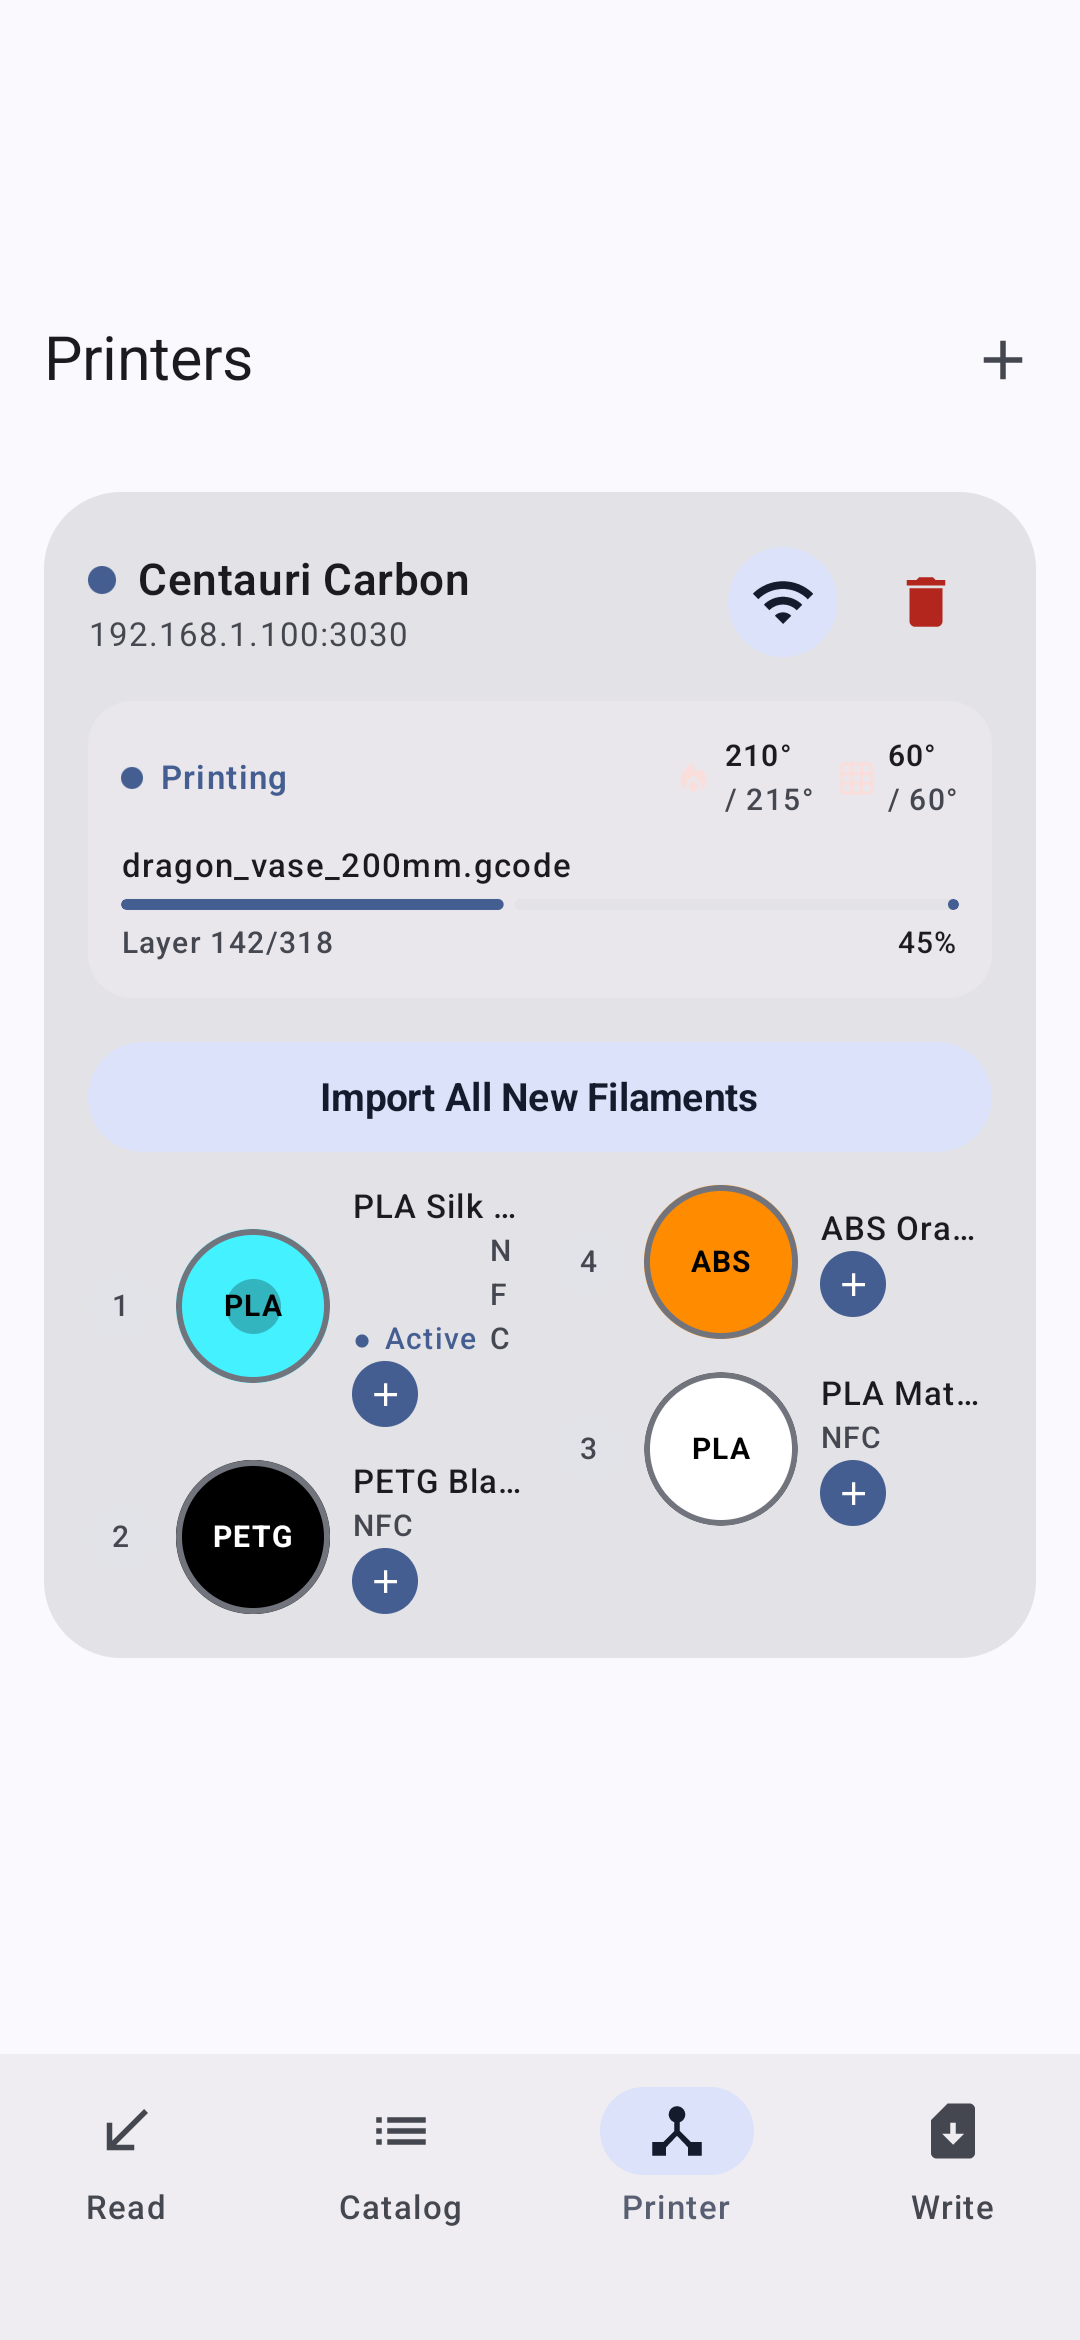
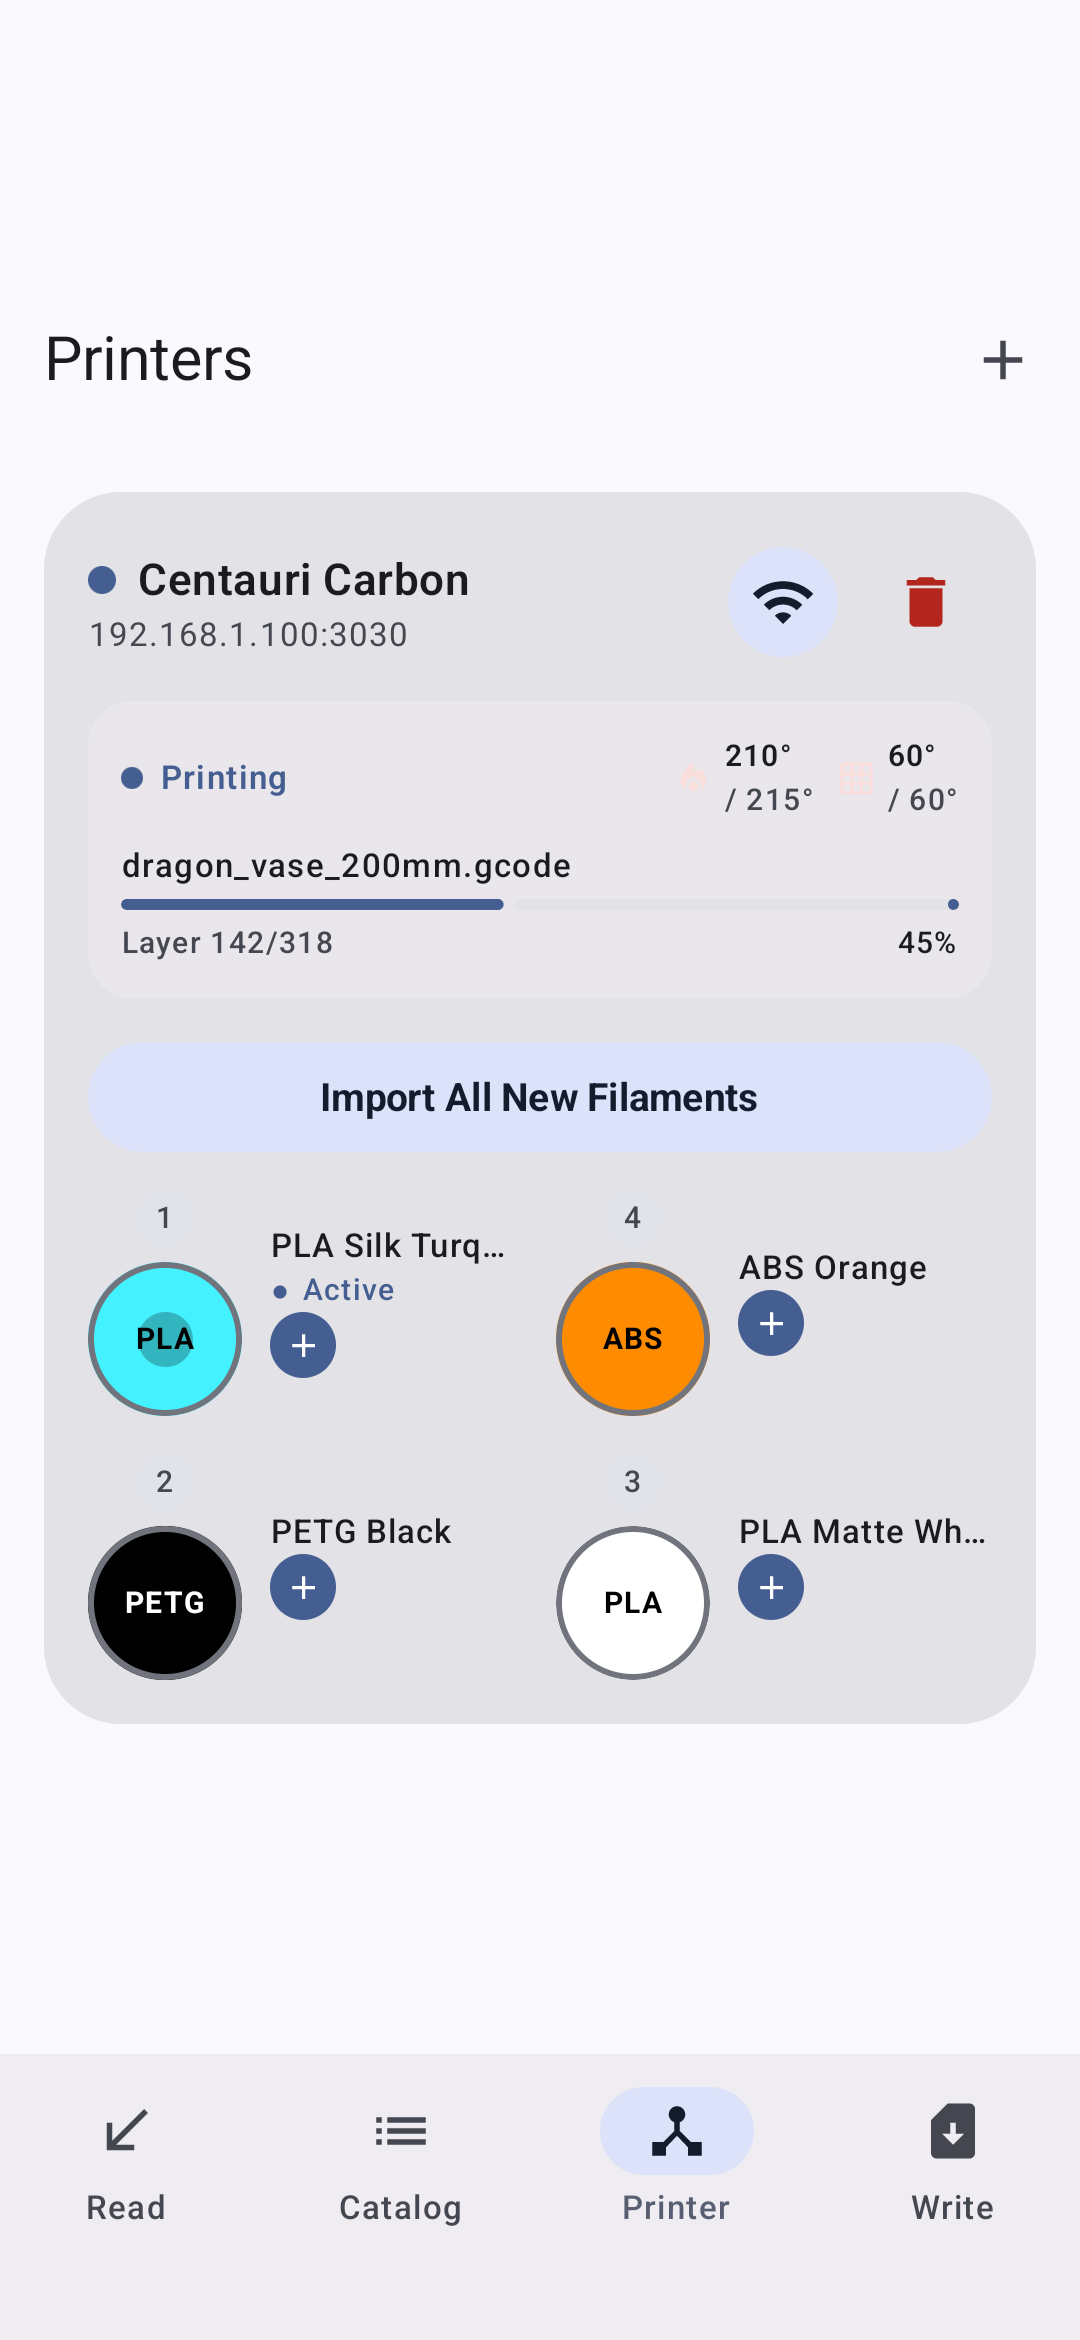
fix: restructure tray slot layout and fix screenshot capture pipeline
PrinterScreen: restructure TraySlot to prevent text overflow:
  - Badge + swatch in a fixed-width vertical column on the left
  - Text details in a weight(1f) column on the right (properly constrained)
  - Remove redundant NFC badge from tray details (cluttered with Active)

ScreenshotTest: replace fragile base64/logcat extraction with MediaStore:
  - Write PNG files to DCIM/Screenshots via MediaStore (survives teardown)
  - No more logcat ring buffer limits or base64 decode corruption

scripts/capture-screenshots.sh: rewrite to use direct adb workflow:
  - adb install -> am instrument -> adb pull -> cleanup
  - Full control over teardown timing, reliable file extraction

Changed region(s): [[0.0611, 0.4991, 0.4889, 0.7175], [0.5194, 0.4991, 0.8861, 0.7175]]

diff --git a/app/src/main/java/com/blumlaut/filamenttagwriter/ui/screens/PrinterScreen.kt b/app/src/main/java/com/blumlaut/filamenttagwriter/ui/screens/PrinterScreen.kt
@@ -649,79 +649,82 @@ private fun TraySlot(
     }
 
     Row(
-        horizontalArrangement = Arrangement.Center,
         verticalAlignment = Alignment.CenterVertically,
         modifier = Modifier.fillMaxWidth(),
     ) {
-        // Slot number badge
-        MaterialTheme(
-            colorScheme = MaterialTheme.colorScheme.copy(
-                primary = MaterialTheme.colorScheme.outlineVariant,
-            ),
-        ) {
-            Surface(
-                modifier = Modifier.size(24.dp),
-                shape = CircleShape,
-                color = MaterialTheme.colorScheme.surfaceVariant.copy(alpha = 0.5f),
-            ) {
-                Box(contentAlignment = Alignment.Center) {
-                    Text(
-                        text = "${tray.trayId + 1}",
-                        style = MaterialTheme.typography.labelSmall,
-                        color = MaterialTheme.colorScheme.onSurfaceVariant,
-                        fontWeight = FontWeight.Medium,
-                    )
-                }
-            }
-        }
-
-        Spacer(modifier = Modifier.width(8.dp))
-
-        // Colored circle (filament swatch)
-        Box(
-            modifier = Modifier
-                .size(56.dp)
-                .clip(CircleShape)
-                .background(trayColor)
-                .then(
-                    if (tray.hasFilament) {
-                        Modifier.border(2.dp, MaterialTheme.colorScheme.outline, CircleShape)
-                    } else {
-                        Modifier.border(2.dp, MaterialTheme.colorScheme.outlineVariant.copy(alpha = 0.5f), CircleShape)
-                    }
-                ),
-            contentAlignment = Alignment.Center,
-        ) {
-            if (tray.hasFilament) {
-                if (isActive) {
-                    Box(
-                        modifier = Modifier
-                            .size(20.dp)
-                            .clip(CircleShape)
-                            .background(Color.Black.copy(alpha = 0.25f)),
-                    )
-                }
-                Text(
-                    text = tray.filamentType.take(6),
-                    style = MaterialTheme.typography.labelSmall,
-                    color = if (isLightColor(colorRgb)) Color.Black else Color.White,
-                    fontWeight = FontWeight.Bold,
-                )
-            } else {
-                Icon(
-                    Icons.Filled.Circle,
-                    contentDescription = "Empty",
-                    tint = MaterialTheme.colorScheme.outlineVariant.copy(alpha = 0.3f),
-                    modifier = Modifier.size(16.dp),
-                )
-            }
-        }
-
-        Spacer(modifier = Modifier.width(8.dp))
-
-        // Tray details + import button
+        // Left side: badge + swatch (fixed width)
         Column(
-            modifier = Modifier.weight(1f),
+            horizontalAlignment = Alignment.CenterHorizontally,
+            verticalArrangement = Arrangement.spacedBy(4.dp),
+        ) {
+            // Slot number badge
+            MaterialTheme(
+                colorScheme = MaterialTheme.colorScheme.copy(
+                    primary = MaterialTheme.colorScheme.outlineVariant,
+                ),
+            ) {
+                Surface(
+                    modifier = Modifier.size(24.dp),
+                    shape = CircleShape,
+                    color = MaterialTheme.colorScheme.surfaceVariant.copy(alpha = 0.5f),
+                ) {
+                    Box(contentAlignment = Alignment.Center) {
+                        Text(
+                            text = "${tray.trayId + 1}",
+                            style = MaterialTheme.typography.labelSmall,
+                            color = MaterialTheme.colorScheme.onSurfaceVariant,
+                            fontWeight = FontWeight.Medium,
+                        )
+                    }
+                }
+            }
+
+            // Colored circle (filament swatch)
+            Box(
+                modifier = Modifier
+                    .size(56.dp)
+                    .clip(CircleShape)
+                    .background(trayColor)
+                    .then(
+                        if (tray.hasFilament) {
+                            Modifier.border(2.dp, MaterialTheme.colorScheme.outline, CircleShape)
+                        } else {
+                            Modifier.border(2.dp, MaterialTheme.colorScheme.outlineVariant.copy(alpha = 0.5f), CircleShape)
+                        }
+                    ),
+                contentAlignment = Alignment.Center,
+            ) {
+                if (tray.hasFilament) {
+                    if (isActive) {
+                        Box(
+                            modifier = Modifier
+                                .size(20.dp)
+                                .clip(CircleShape)
+                                .background(Color.Black.copy(alpha = 0.25f)),
+                        )
+                    }
+                    Text(
+                        text = tray.filamentType.take(6),
+                        style = MaterialTheme.typography.labelSmall,
+                        color = if (isLightColor(colorRgb)) Color.Black else Color.White,
+                        fontWeight = FontWeight.Bold,
+                    )
+                } else {
+                    Icon(
+                        Icons.Filled.Circle,
+                        contentDescription = "Empty",
+                        tint = MaterialTheme.colorScheme.outlineVariant.copy(alpha = 0.3f),
+                        modifier = Modifier.size(16.dp),
+                    )
+                }
+            }
+        }
+
+        Spacer(modifier = Modifier.width(10.dp))
+
+        // Right side: text details (constrained to remaining width)
+        Column(
+            modifier = Modifier.weight(1f).fillMaxHeight(),
             verticalArrangement = Arrangement.Center,
         ) {
             if (tray.hasFilament) {
@@ -733,8 +736,11 @@ private fun TraySlot(
                     overflow = TextOverflow.Ellipsis,
                     color = MaterialTheme.colorScheme.onSurface,
                 )
-                Row(horizontalArrangement = Arrangement.spacedBy(4.dp), verticalAlignment = Alignment.Bottom) {
-                    if (isActive) {
+                if (isActive) {
+                    Row(
+                        horizontalArrangement = Arrangement.spacedBy(4.dp),
+                        verticalAlignment = Alignment.Bottom,
+                    ) {
                         Text(
                             text = "●",
                             style = MaterialTheme.typography.labelSmall,
@@ -745,13 +751,6 @@ private fun TraySlot(
                             style = MaterialTheme.typography.labelSmall,
                             color = MaterialTheme.colorScheme.primary,
                             fontWeight = FontWeight.Medium,
-                        )
-                    }
-                    if (tray.hasNfcTag) {
-                        Text(
-                            text = "NFC",
-                            style = MaterialTheme.typography.labelSmall,
-                            color = MaterialTheme.colorScheme.onSurfaceVariant,
                         )
                     }
                 }

diff --git a/app/src/androidTest/java/com/blumlaut/filamenttagwriter/ScreenshotTest.kt b/app/src/androidTest/java/com/blumlaut/filamenttagwriter/ScreenshotTest.kt
@@ -1,6 +1,8 @@
 package com.blumlaut.filamenttagwriter
 
+import android.content.ContentValues
 import android.graphics.Bitmap
+import android.provider.MediaStore
 import android.util.Log
 import androidx.compose.ui.graphics.ImageBitmap
 import androidx.compose.ui.graphics.asAndroidBitmap
@@ -14,22 +16,13 @@ import com.blumlaut.filamenttagwriter.nfc.NfcReaderWriter
 import kotlinx.coroutines.runBlocking
 import org.junit.Rule
 import org.junit.Test
-import java.io.ByteArrayOutputStream
-import java.util.Base64
 import java.util.UUID
 
 /**
  * Instrumented test that captures screenshots of each app screen.
+ * Writes PNG files to DCIM/Screenshots via MediaStore (survives teardown).
  *
- * Screenshots are encoded as base64 in logcat because the test APK is
- * uninstalled before Gradle hooks can pull files via adb run-as.
- *
- * Run:
- *   ./gradlew :app:connectedAndroidTest --no-configuration-cache \
- *     -PtestInstrumentationRunnerArguments.class=com.blumlaut.filamenttagwriter.ScreenshotTest
- *
- * Extract:
- *   adb logcat -d | grep ScreenshotTest > /tmp/screenshot_logs.txt
+ * Run via script:
  *   ./scripts/capture-screenshots.sh
  */
 class ScreenshotTest {
@@ -341,18 +334,20 @@ class ScreenshotTest {
     private fun ImageBitmap.saveAs(tag: String) {
         val bitmap = asAndroidBitmap()
         try {
-            val baos = ByteArrayOutputStream()
-            bitmap.compress(Bitmap.CompressFormat.PNG, 100, baos)
-            val bytes = baos.toByteArray()
-            val base64 = Base64.getEncoder().encodeToString(bytes)
-            Log.d("ScreenshotTest", "===SCREENSHOT_START:$tag===")
-            // Log base64 in chunks to avoid logcat line length limits
-            val chunkSize = 900
-            for (i in (0 until base64.length step chunkSize)) {
-                Log.d("ScreenshotTest", base64.substring(i, minOf(i + chunkSize, base64.length)))
+            val context = composeTestRule.activity
+            val values = ContentValues().apply {
+                put(MediaStore.Images.Media.DISPLAY_NAME, "screenshot_${tag}.png")
+                put(MediaStore.Images.Media.MIME_TYPE, "image/png")
+                put(MediaStore.Images.Media.RELATIVE_PATH, "DCIM/Screenshots")
             }
-            Log.d("ScreenshotTest", "===SCREENSHOT_END:$tag===")
-            Log.d("ScreenshotTest", "Screenshot $tag: ${bytes.size} bytes")
+            val resolver = context.contentResolver
+            val uri = resolver.insert(MediaStore.Images.Media.EXTERNAL_CONTENT_URI, values)
+                ?: throw Exception("Failed to create MediaStore entry")
+            resolver.openOutputStream(uri)?.use { os ->
+                bitmap.compress(Bitmap.CompressFormat.PNG, 100, os)
+                os.flush()
+            }
+            Log.d("ScreenshotTest", "Screenshot $tag saved to ${uri.path}")
         } catch (e: Exception) {
             Log.e("ScreenshotTest", "Failed to capture $tag", e)
             throw e
